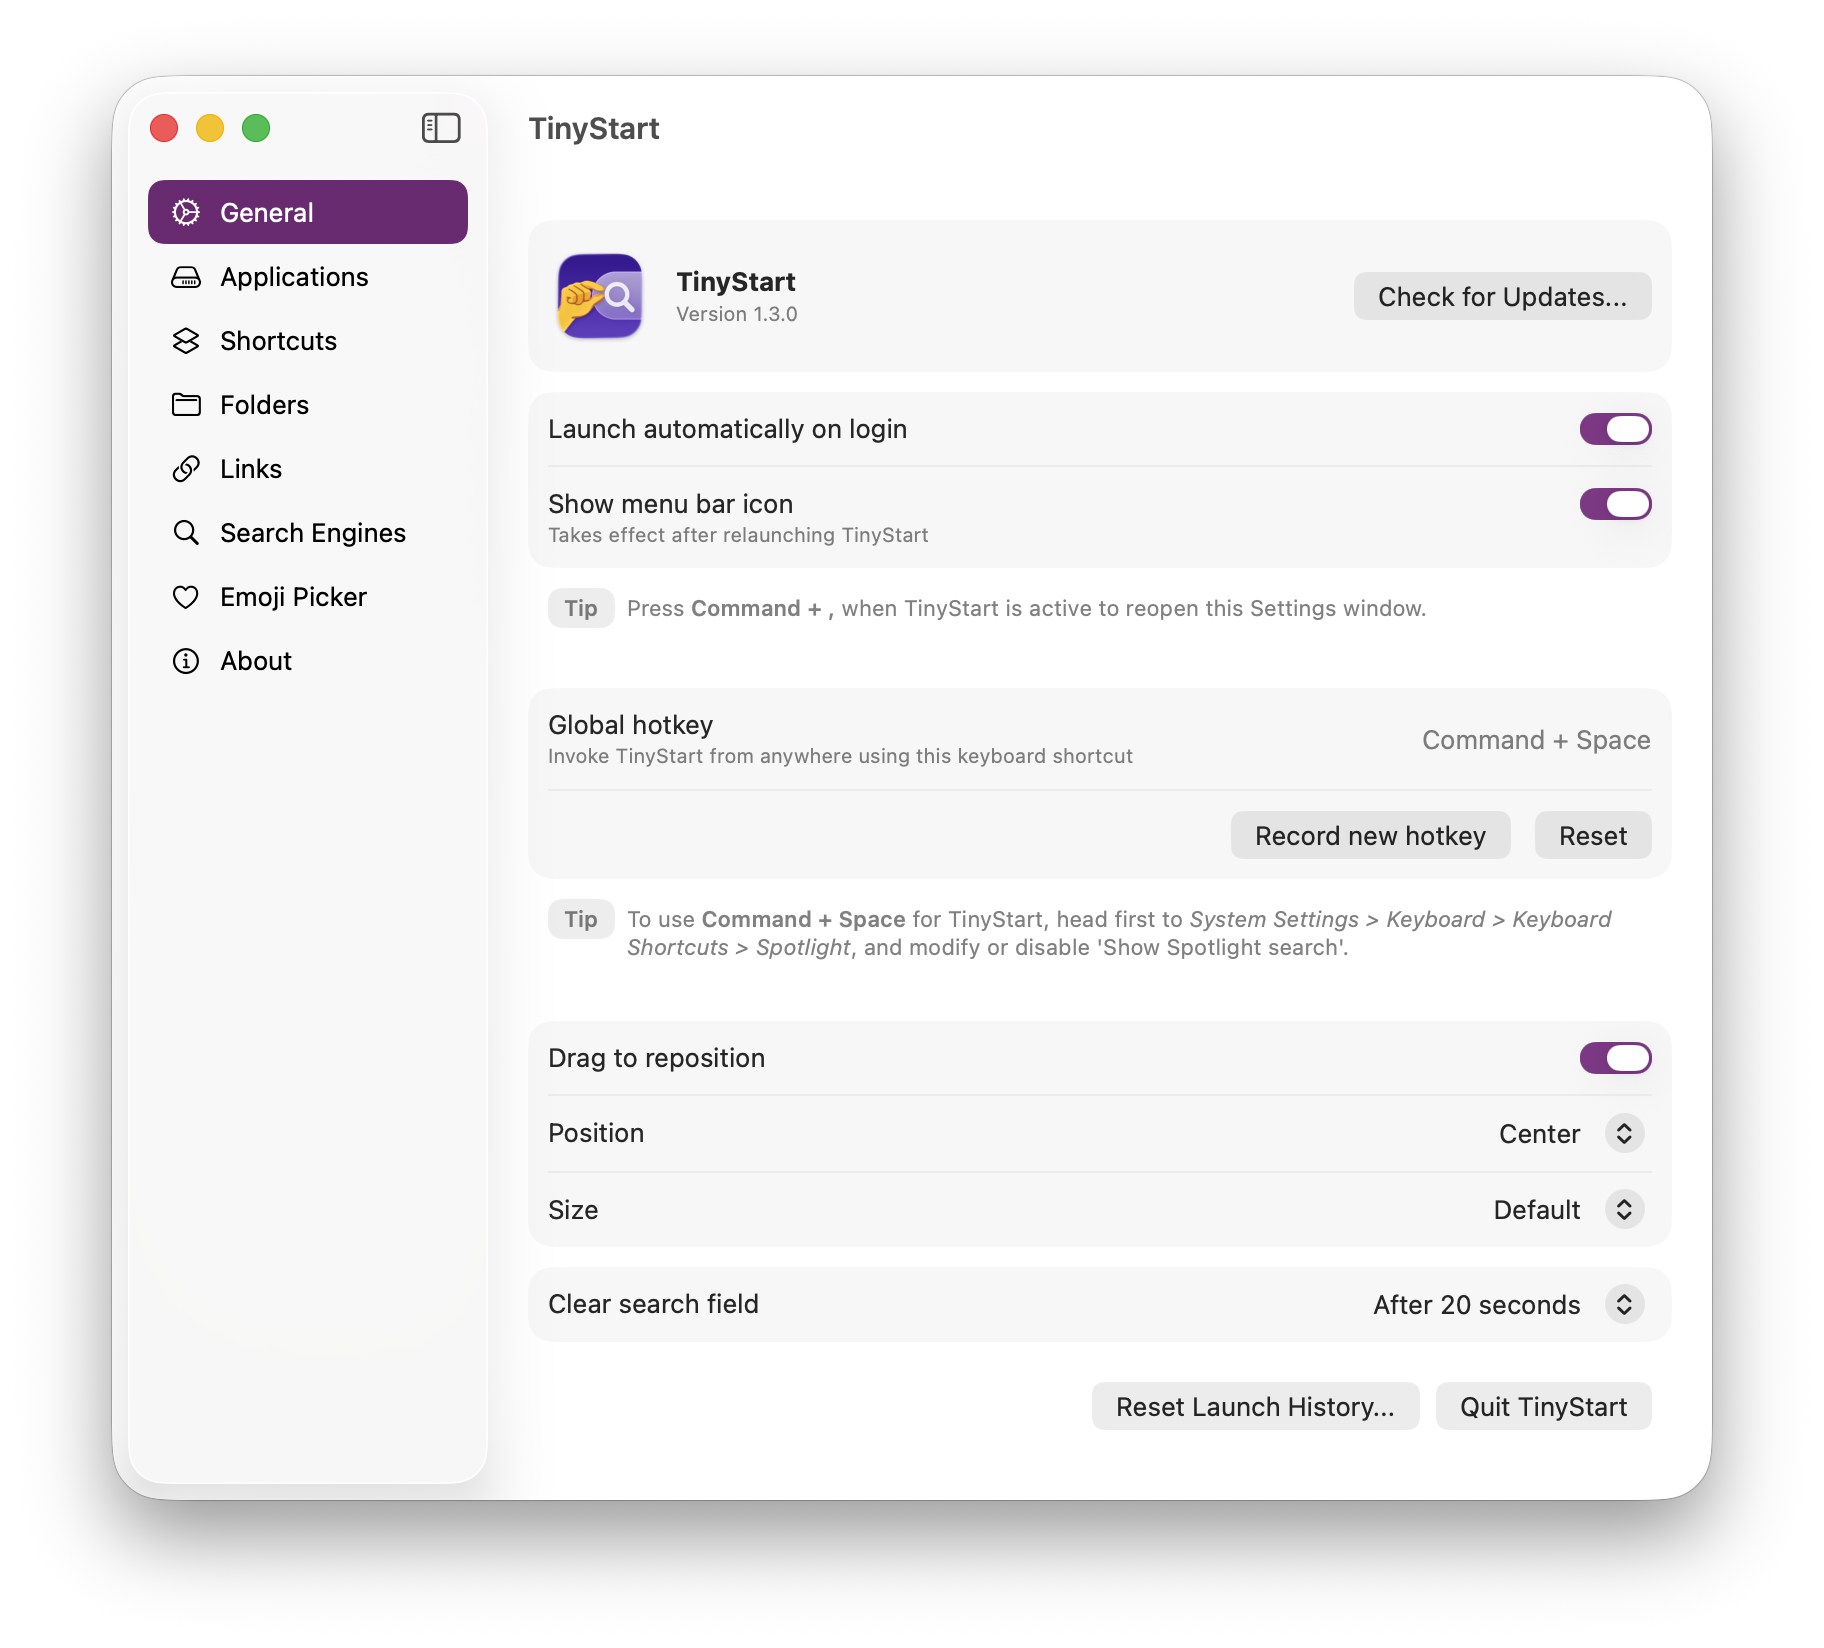
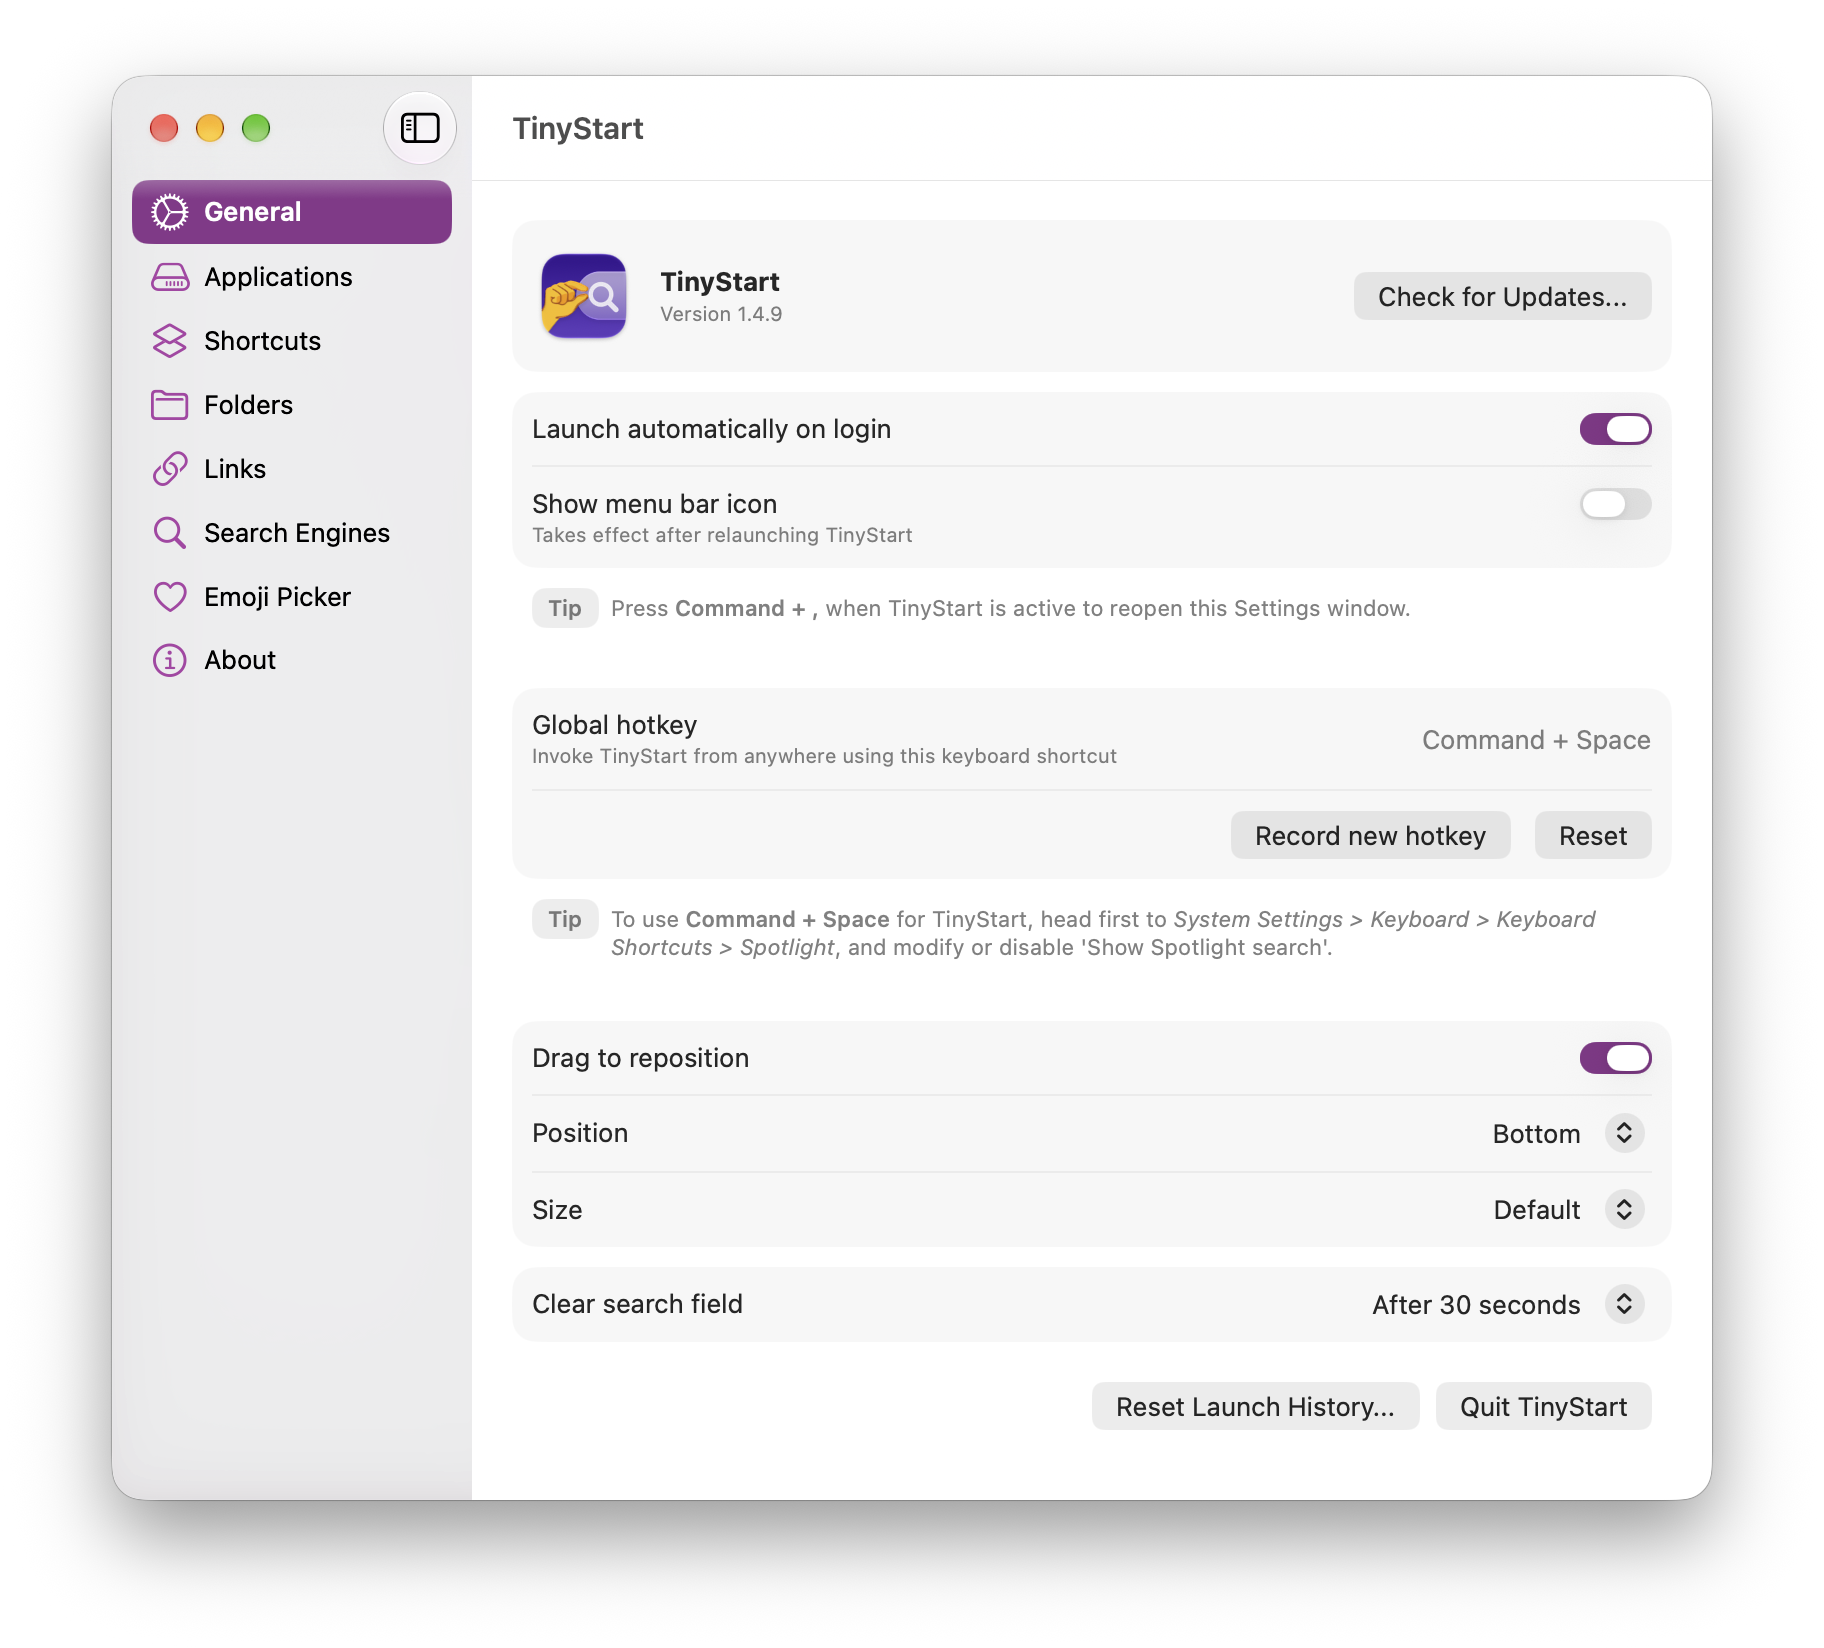
Buncha updates

diff --git a/index.html b/index.html
@@ -60,22 +60,17 @@
                 <a class="action" href="https://ko-fi.com/s/eb0f06d83e">Buy</a>
             </div>
 
+            <p class="asterisk">* Yes, emoji are essential.</p>
+
             <div class="hero-screenshots">
                 <a class="video" href="https://youtu.be/S5_oJ04HTHA" title="Watch my lil' demo video on YouTube" target="_blank">
                     <svg xmlns="http://www.w3.org/2000/svg" width="32" height="32" fill="#fafafa" viewBox="0 0 256 256"><path d="M128,24A104,104,0,1,0,232,128,104.11,104.11,0,0,0,128,24Zm40.55,110.58-52,36A8,8,0,0,1,104,164V92a8,8,0,0,1,12.55-6.58l52,36a8,8,0,0,1,0,13.16Z"></path></svg>
                 </a>
                 <picture class="one">
-                    <source srcset="assets/Screenshot1.png" type="image/png">
-                    <img src="assets/Screenshot1.png" alt="A screenshot of TinyStart in action">
-                </picture>
-
-                <picture class="two">
-                    <source srcset="assets/Screenshot-emojis.png" type="image/png">
-                    <img src="assets/Screenshot-emojis.png" alt="A screenshot of TinyStart in action">
+                    <source srcset="assets/TinyStart-screenshots-combined.png" type="image/png">
+                    <img src="assets/TinyStart-screenshots-combined.png" alt="Two screenshots of TinyStart in action">
                 </picture>
             </div>
-
-            <p class="asterisk">* Yes, emoji are essential.</p>
 
         </header>
 
@@ -88,7 +83,7 @@
                     <div>
                         <h2>Launch apps ✨fast✨</h2>
                         <p>TinyStart displays search results instantly on every keystroke. The app learns your favorite apps over time and prioritizes them.</p>
-                        <small><strong>New:</strong> Pin apps and use handy keyboard shortcuts.</small>
+                        <small><strong>New:</strong> Pin apps, use handy keyboard shortcuts.</small>
                     </div>
                 </div>
 
@@ -99,7 +94,7 @@
                     <div>
                         <h2>Insert Emoji</h2>
                         <p>TinyStart's <strong>emoji picker</strong> is everything Apple's native Emoji picker isn't: it's fast, it lets you insert Emoji in any text field, and it learns your favorite Emoji over time.</p>
-                        <small><strong>New:</strong> Pin Emoji to the top of the list!</small>
+                        <small><strong>New:</strong> Pin Emoji to the top of the list, insert Emoji without leaving the picker.</small>
                     </div>
                 </div>
 
@@ -110,6 +105,8 @@
                     <div>
                         <h2>Save & open links</h2>
                         <p>Add your frequently used <strong>URLs</strong> for quick access. Works with websites and your favorite app's deep links.</p>
+                        <small><strong>New:</strong> Set custom web search engines, and choose your preferred fallbacks.</small>
+
                     </div>
                 </div>
 
@@ -128,7 +125,7 @@
                         <svg xmlns="http://www.w3.org/2000/svg" width="32" height="32" fill="#6c5ccc" viewBox="0 0 256 256"><path d="M218.29,182.17a12,12,0,0,1-16.47,4.12L140,149.19V216a12,12,0,0,1-24,0V149.19l-61.82,37.1a12,12,0,1,1-12.35-20.58L104.68,128,41.83,90.29A12,12,0,1,1,54.18,69.71L116,106.81V40a12,12,0,0,1,24,0v66.81l61.82-37.1a12,12,0,1,1,12.35,20.58L151.32,128l62.85,37.71A12,12,0,0,1,218.29,182.17Z"></path></svg>                    </span>
                     <div>
                         <h2>And more…</h2>
-                        <p>Run <a href="https://support.apple.com/guide/shortcuts-mac/welcome/mac"><strong>Shortcuts</strong></a>, add your own <strong>web search engines</strong>, create custom icons for your saved links, perform quick math calculations and <strong>unit conversions</strong>, adjust TinyStart's size and position, and assign your own <strong>keyboard shortcuts</strong> to TinyStart and its Emoji Picker.</p>
+                        <p>Run <a href="https://support.apple.com/guide/shortcuts-mac/welcome/mac">Shortcuts</a>, create custom icons for your saved links, perform quick math calculations and <strong>unit conversions</strong>, adjust TinyStart's size and position, and assign your own <strong>keyboard shortcuts</strong> to TinyStart and its Emoji Picker.</p>
                         <small><strong>Planned:</strong> Customize TinyStart's UI accent color</small>
                     </div>
                 </div>

diff --git a/style.css b/style.css
@@ -68,9 +68,9 @@ a:hover {
     background-image: url(assets/noise.png);
     color: white;
     max-width: var(--page-width);
-    height: 800px;
     padding-block-start: 8em;
-    padding-block-end: 300px;
+    padding-block-end: 0;
+    padding-inline: 0;
     font-size: 120%;
     display: flex;
     flex-flow: column nowrap;
@@ -79,6 +79,7 @@ a:hover {
     gap: 2em;
     margin: 0 auto;
     position: relative;
+    box-shadow: inset 0 -100px white;
 
     p {
         margin: 0;
@@ -227,12 +228,11 @@ a:hover {
 
     .hero-screenshots {
         display: flex;
-        flex-flow: row nowrap;
+        flex-flow: column nowrap;
         justify-content: center;
-        position: absolute;
-        inset-block-end: -110px;
-        transform: translateX(20px);
+        align-items: center;
         max-width: 100%;
+        position: relative;
     }
 
 
@@ -241,16 +241,17 @@ a:hover {
         pointer-events: none;
     }
     picture.one {
-        transform: translateX(100px) translateY(0);
-    }
-    picture.two {
-        transform: translateX(-123.5px) translateY(142px);
+        box-shadow: inset 0 -20px white;
     }
     picture img {
-        height: 345px;
+        height: auto;
+        max-width: 100%;
+        filter: none;
     }
     .video {
         position: absolute;
+        inset-block-start: 0;
+        inset-inline-end: 2em;
         width: 220px;
         height: 140px;
         background-color: #333;
@@ -263,7 +264,7 @@ a:hover {
             0 0.35em 0.35em rgb(0 0 0 / 0.1);
         outline: 1px solid rgb(0 0 0 / 0.1);
         outline-offset: -1px;
-        transform: translate(150px, -30px);
+        transform: scale(0.8);
         transition: all 0.3s ease;
         background-image: url(assets/TinyStart-video-thumbnail.jpg);
         background-size: cover;
@@ -292,13 +293,13 @@ a:hover {
     .video:hover {
         background-color: #000;
         cursor: pointer;
-        transform: translate(150px, -30px) scale(1.1);
+        transform: scale(0.9);
     }
     .video:hover::after {
         background-color: rgb(106 90 205 / 0.7);
     }
     .video:active {
-        transform: translate(150px, -30px) scale(0.95);
+        transform: scale(0.85);
     }
     .video svg {
         width: 2.8em;
@@ -307,8 +308,9 @@ a:hover {
 
     .asterisk {
         position: absolute;
+        z-index: 1;
+        inset-block-end: 320px;
         inset-inline-end: -1.1em;
-        inset-block-end: 5.5em;
         transform: translateX(80%) rotate(-90deg);
         transform-origin: left center;
         font-size: .4em;
@@ -318,23 +320,20 @@ a:hover {
     @media screen and (max-width: 1000px) {
         & {
             font-size: 1em;
-            padding-block-end: 200px;
+            padding-block-end: 0;
             margin-block-start: 0;
             margin-inline: auto;
             max-width: unset;
             border-radius: 0;
             width: 100vw;
-            height: 650px;
-        }
-        .hero-screenshots {
-            transform: scale(.5);
         }
         .video {
-            transform: translate(150px, -40px) scale(1.2);
+            position: static;
         }
         .asterisk {
             inset-inline-end: -2.5em;
-            inset-block-end: 1.5em; 
+            inset-block-start: 24.5em;
+            inset-block-end: unset;
         }
         .purchase {
             padding: .6em 1em .6em;
@@ -343,13 +342,10 @@ a:hover {
     @media screen and (max-width: 400px) {
         & {
             font-size: 1em;
-            padding-block-end: 220px;
-        }
-        .hero-screenshots {
-            transform: scale(.5);
         }
         .video {
-            transform: translate(150px, -40px) scale(1.25);
+            transform: scale(.65);
+            margin-block: -1em;
         }
     }
 }
@@ -358,13 +354,13 @@ a:hover {
 main {
     max-width: var(--page-width);
     margin: 0 auto;
-    padding-block: 19em 7em;
+    padding-block: 2em 7em;
     padding-inline: 3em;
     background: white;
 
     @media screen and (max-width: 1000px) {
         & {
-            padding-block: 9em 3em;
+            padding-block: 2em 3em;
             padding-inline: 1.5em;
             width: 100%;
             max-width: unset;
